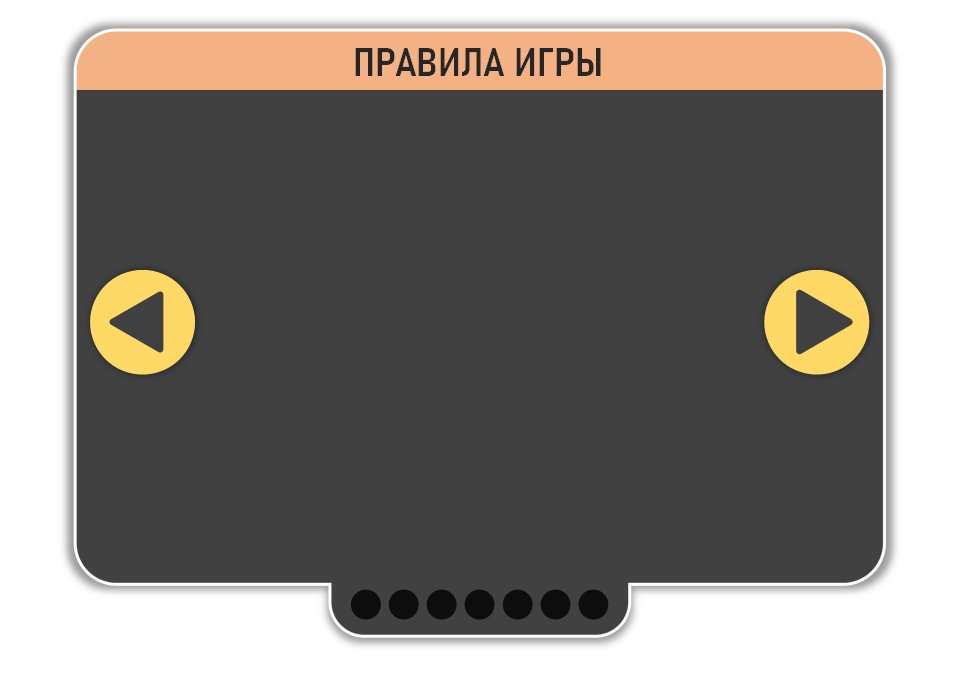
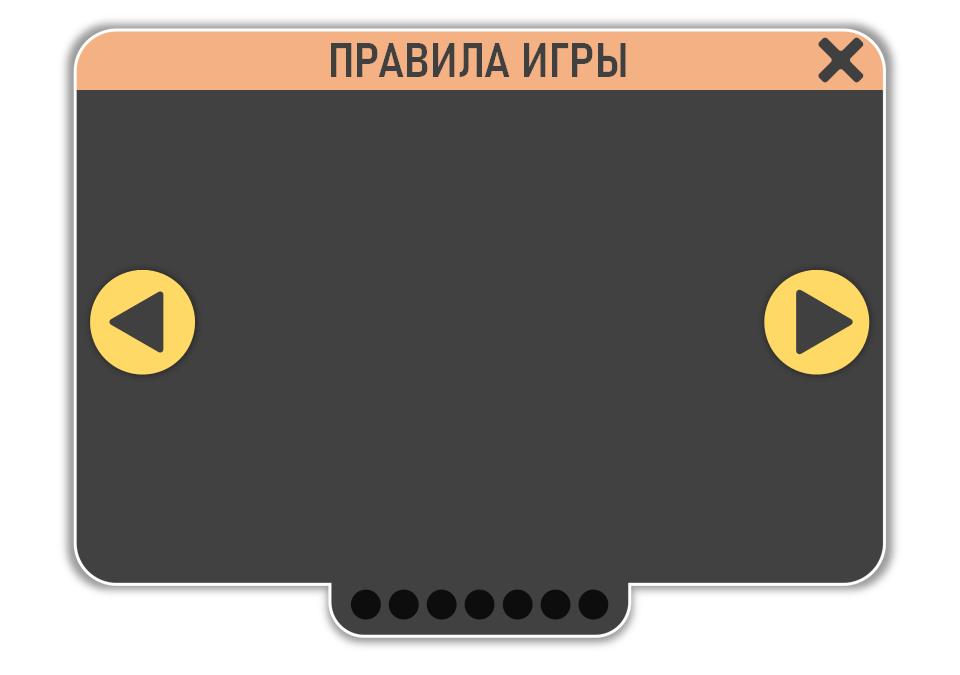
123

Changed region(s): [[0.3438, 0.0622, 0.6562, 0.1244], [0.8438, 0.0622, 0.9062, 0.1244]]

diff --git a/index.js b/index.js
@@ -3625,6 +3625,9 @@ game = {
 	
 	async activate(params={}) {
 
+
+		if(gamePlatform==='CRAZYGAMES') window.CrazyGames.SDK.game.gameplayStart()
+
 		my_role = params.role
 		
 		//фиксируем айди соперника
@@ -4022,6 +4025,9 @@ game = {
 	},
 
 	async stop(result) {
+
+		if(gamePlatform==='CRAZYGAMES') window.CrazyGames.SDK.game.gameplayStop()
+
 
 		//игра закончена, показываем биг мсг
 		this.state='big_msg'
@@ -8009,6 +8015,14 @@ tut={
 		sound.play('click')
 		
 		const mx=e.data.global.x/app.stage.scale.x
+		const my=e.data.global.y/app.stage.scale.y
+		
+		//кнопка закрытия
+		if (my<80&&mx>610){
+			this.close()
+			return
+		}	
+		
 		if(mx<210) this.switch_down(-1)
 		if(mx>580) this.switch_down(1)
 			
@@ -8372,6 +8386,8 @@ auth2 = {
 			window.CrazyGames.SDK.game.addSettingsChangeListener((newSettings)=>{
 				console.log("Settings updated", newSettings);
 			});
+			
+			window.CrazyGames.SDK.game.loadingStart();
 					
 			return;
 		}
@@ -9105,9 +9121,9 @@ async function init_game_env(lang) {
 	//туториал
 	if (!my_data.games) tut.activate()	
 	
-	//ready api yandex
-	if (gamePlatform==='YANDEX')
-		window.ysdk.features.LoadingAPI.ready()
+	//ready api
+	if (gamePlatform==='YANDEX') window.ysdk.features.LoadingAPI.ready()
+	if (gamePlatform==='CRAZYGAMES') window.CrazyGames.SDK.game.loadingStop()
 }
 
 main_loop={
